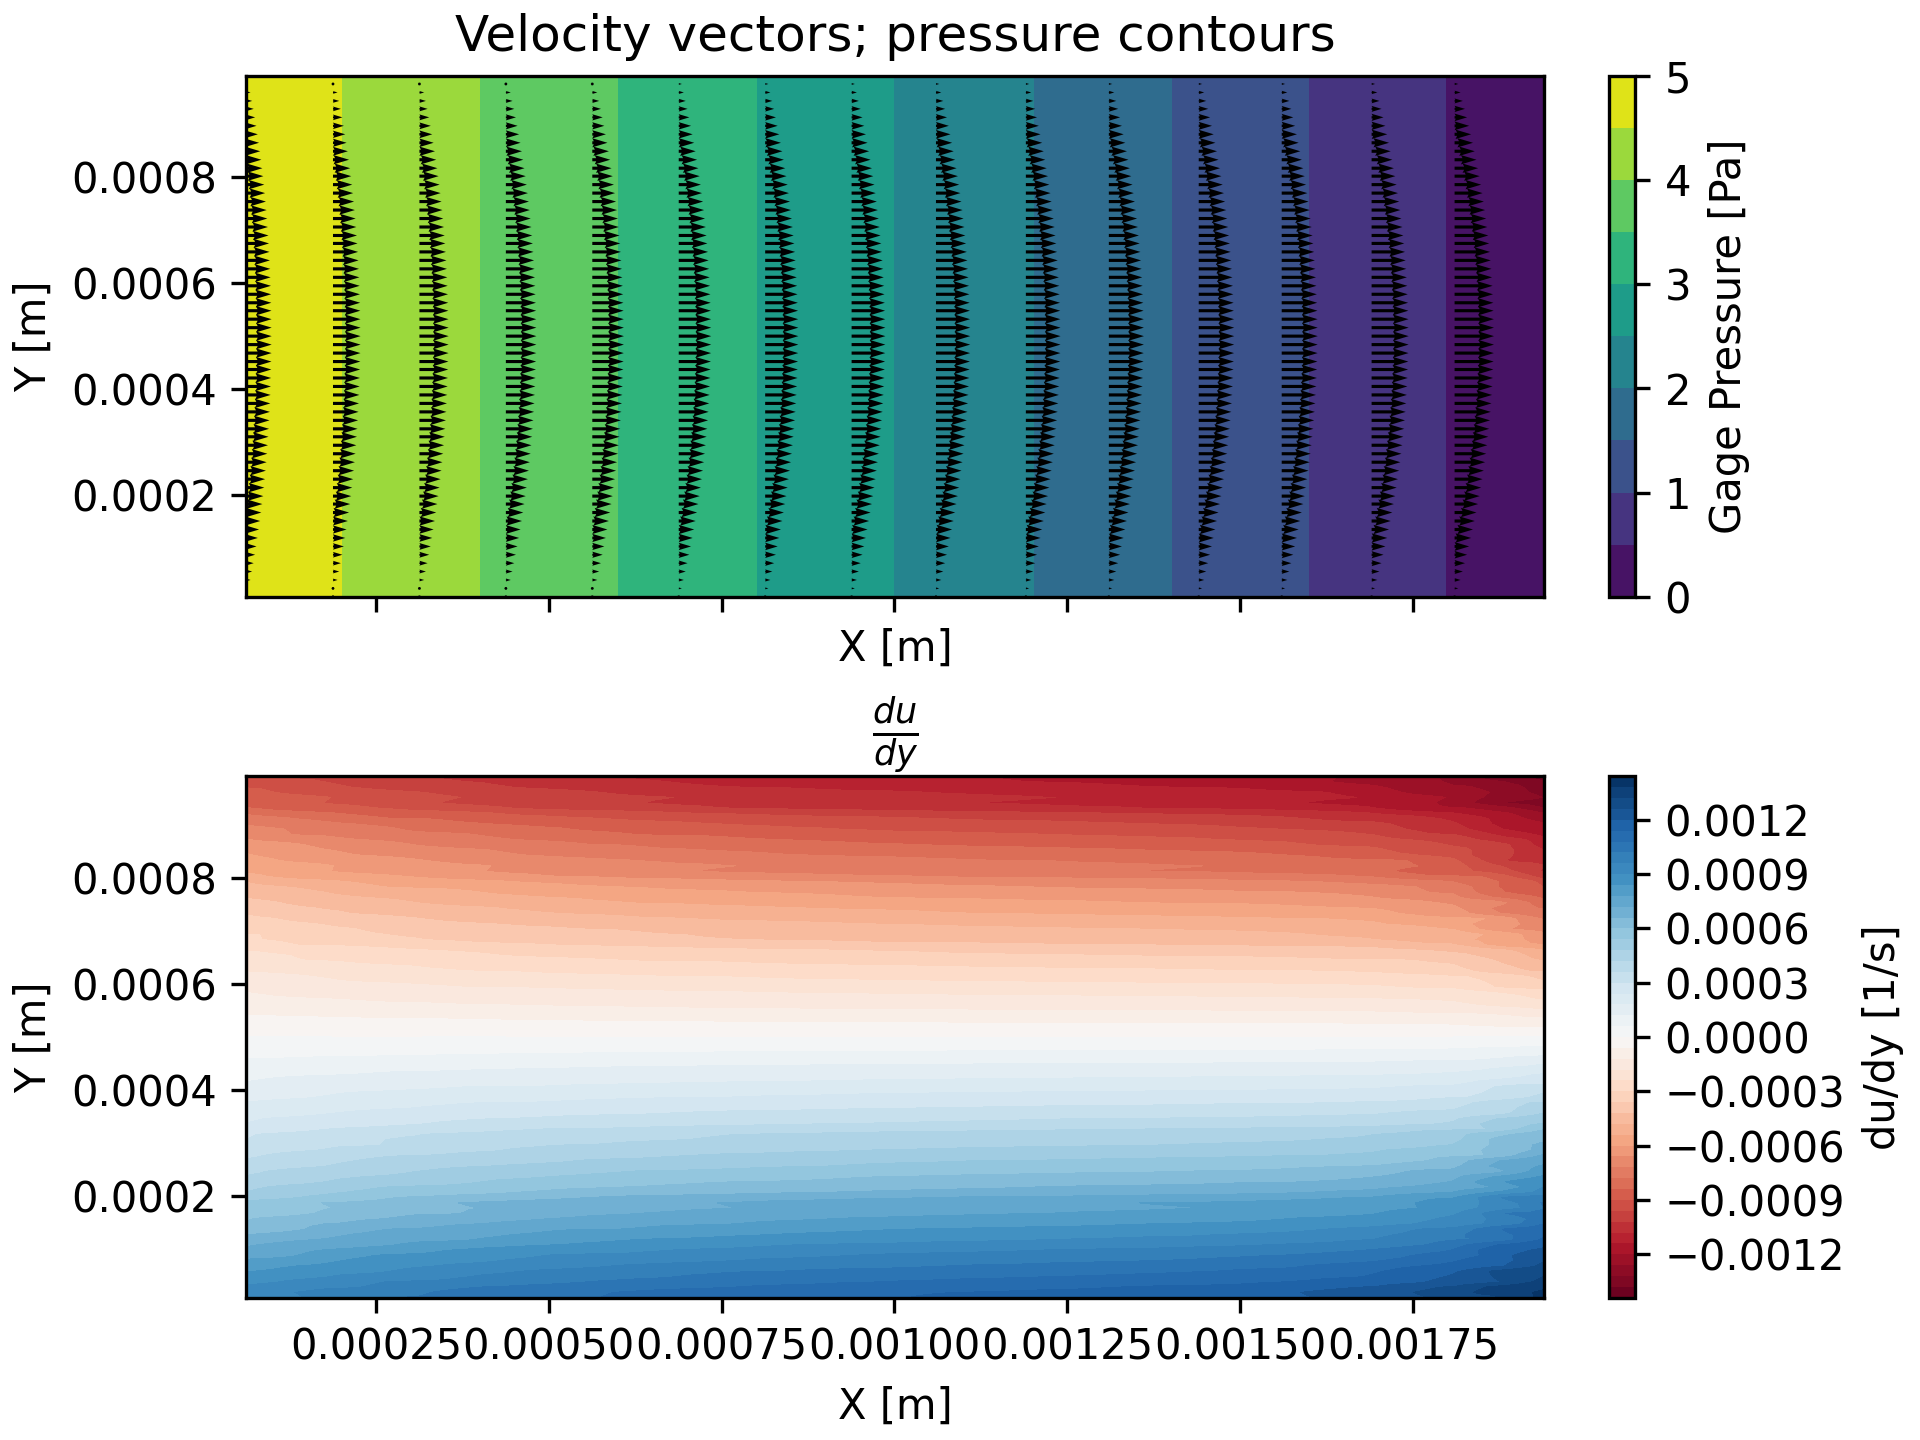
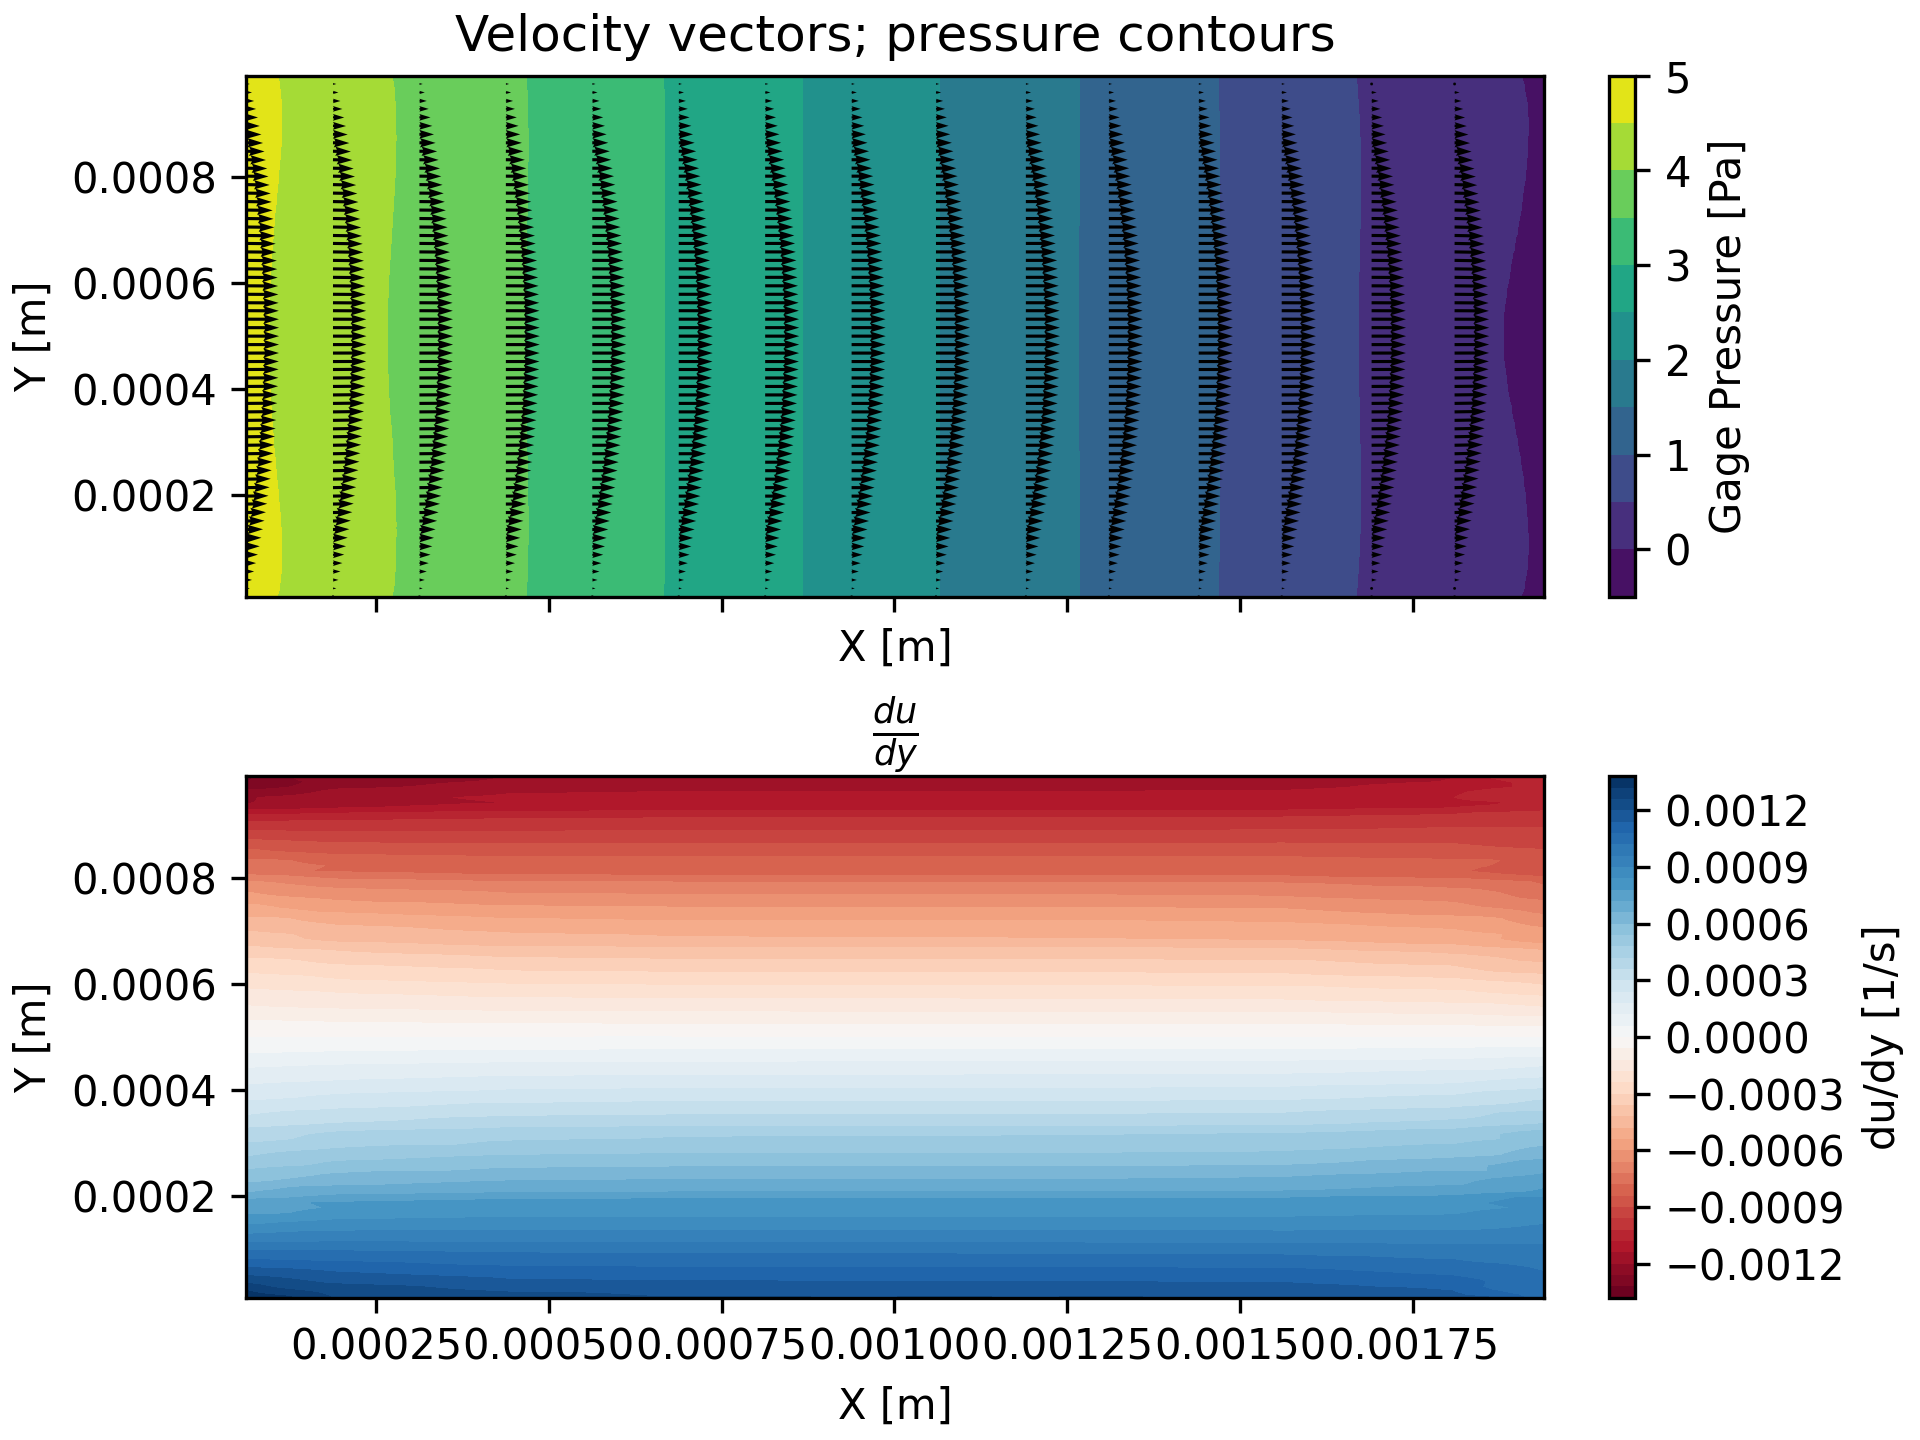
print average magnitudes of pressure & velocity correction

diff --git a/src/main.rs b/src/main.rs
@@ -22,7 +22,7 @@ fn validate_solvers() {
     // | 1 0 0 |   | 11/6 |   | 1.833 |
     // | 0 1 0 | = | 10/9 | = | 1.111 |
     // | 0 0 1 |   | -2/3 |   | -0.67 |
-    let mut a_coo: CooMatrix<Float> = CooMatrix::new(3,3);
+    let mut a_coo: CooMatrix<Float> = CooMatrix::new(3, 3);
     a_coo.push(0, 0, 2.);
     a_coo.push(0, 2, 1.);
 
@@ -34,8 +34,8 @@ fn validate_solvers() {
 
     let a = CsrMatrix::from(&a_coo);
     // let mut a = CsMat::new((3, 3), vec![2., 0., 1.], vec![0., 3., 2.], vec![2., 0., 4.]);
-    let b = DVector::from_column_slice(&vec![3.,2.,1.]);
-    let mut x = DVector::from_column_slice(&vec![0.,0.,0.]);
+    let b = DVector::from_column_slice(&vec![3., 2., 1.]);
+    let mut x = DVector::from_column_slice(&vec![0., 0., 0.]);
 
     iterative_solve(&a, &b, &mut x, 100, SolutionMethod::Jacobi, 0.5);
 
@@ -53,7 +53,6 @@ fn validate_solvers() {
     println!("x = {x:?}");
     println!("*** Jacobi solver validated. ***");
 
-
     println!("*** Testing Gauss-Seidel solver for correctness. ***");
     // | 2 0 1 |   | 3 |
     // | 0 3 2 | = | 2 |
@@ -62,7 +61,7 @@ fn validate_solvers() {
     // | 1 0 0 |   | 11/6 |   | 1.833 |
     // | 0 1 0 |   | 10/9 |   | 1.111 |
     // | 0 0 1 | = | -2/3 | = | -0.67 |
-    let mut a_coo: CooMatrix<Float> = CooMatrix::new(3,3);
+    let mut a_coo: CooMatrix<Float> = CooMatrix::new(3, 3);
     a_coo.push(0, 0, 2.);
     a_coo.push(0, 2, 1.);
 
@@ -74,8 +73,8 @@ fn validate_solvers() {
 
     let a = CsrMatrix::from(&a_coo);
     // let mut a = CsMat::new((3, 3), vec![2., 0., 1.], vec![0., 3., 2.], vec![2., 0., 4.]);
-    let b = DVector::from_column_slice(&vec![3.,2.,1.]);
-    let mut x = DVector::from_column_slice(&vec![0.,0.,0.]);
+    let b = DVector::from_column_slice(&vec![3., 2., 1.]);
+    let mut x = DVector::from_column_slice(&vec![0., 0., 0.]);
 
     iterative_solve(&a, &b, &mut x, 100, SolutionMethod::GaussSeidel, 0.7);
 
@@ -179,13 +178,7 @@ fn test_2d(iteration_count: Uint) {
 
     let settings = NumericalSettings::default();
 
-    solve_steady(
-        &mut mesh,
-        &settings,
-        1000.,
-        0.001,
-        iteration_count,
-    );
+    solve_steady(&mut mesh, &settings, 1000., 0.001, iteration_count);
 }
 
 fn test_3d_1x3(iteration_count: Uint, momentum_relaxation: Float, pressure_relaxation: Float) {
@@ -229,13 +222,7 @@ fn test_3d_1x3(iteration_count: Uint, momentum_relaxation: Float, pressure_relax
 
     let settings = NumericalSettings::default();
     // High viscosity needed to keep Peclet under control
-    let (u, v, w, p) = solve_steady(
-        &mut mesh,
-        &settings,
-        1000.,
-        10.,
-        iteration_count,
-    );
+    let (u, v, w, p) = solve_steady(&mut mesh, &settings, 1000., 10., iteration_count);
 
     for cell_number in 0..mesh.cells.len() {
         let cell_velocity = Vector3 {
@@ -252,7 +239,6 @@ fn test_3d_1x3(iteration_count: Uint, momentum_relaxation: Float, pressure_relax
         //     1e-6
         // ));
     }
-
 }
 
 fn test_3d_3x3(iteration_count: Uint, momentum_relaxation: Float, pressure_relaxation: Float) {
@@ -293,13 +279,7 @@ fn test_3d_3x3(iteration_count: Uint, momentum_relaxation: Float, pressure_relax
     }
 
     let settings = NumericalSettings::default();
-    let (u, v, w, p) = solve_steady(
-        &mut mesh,
-        &settings,
-        1000.,
-        100.,
-        iteration_count,
-    );
+    let (u, v, w, p) = solve_steady(&mut mesh, &settings, 1000., 100., iteration_count);
 
     let mut avg_velocity = Vector3::zero();
     for cell_number in 0..mesh.cells.len() {
@@ -353,13 +333,7 @@ fn couette(iteration_count: Uint) {
         ..NumericalSettings::default()
     };
 
-    let (u, v, w, p) = solve_steady(
-        &mut mesh,
-        &settings,
-        1000.,
-        0.01,
-        iteration_count,
-    );
+    let (u, v, w, p) = solve_steady(&mut mesh, &settings, 1000., 0.01, iteration_count);
     // Initially guessed pressure field is exactly correct, so
     // this should be able to converge in 1 iteration. With 100k
     // Gauss-Seidel iterations, it's mostly correct in 1iter, but
@@ -367,7 +341,7 @@ fn couette(iteration_count: Uint) {
     // with pressure-velocity coupling? Not enough mesh? I think
     // it's pressure-velocity coupling, as lots of inner iterations
     // produces correct-ish results, while lots of outer iterations
-    // produces a pseudo-turbulent velocity profile. Disabling pressure
+    // produces a pseudo-turbulent velocity profile. Disabling velocity
     // correction produces a noisy and inconsistent velocity field,
     // but it's much closer to correct than with pressure correction
     // enabled.

diff --git a/src/solver.rs b/src/solver.rs
@@ -281,7 +281,7 @@ pub fn solve_steady(
                     print!("p': ");
                     print_vec_scientific(&p_prime);
                 }
-                apply_pressure_correction(
+                let (avg_pressure_correction, avg_vel_correction) = apply_pressure_correction(
                     mesh,
                     &a,
                     &p_prime,
@@ -296,8 +296,8 @@ pub fn solve_steady(
                 let v_avg = v.iter().sum::<Float>() / (cell_count as Float);
                 let w_avg = w.iter().sum::<Float>() / (cell_count as Float);
                 println!(
-                    "Iteration {}: avg velocity = ({:.2e}, {:.2e}, {:.2e})",
-                    iter_number, u_avg, v_avg, w_avg,
+                    "Iteration {}: avg velocity = ({:.2e}, {:.2e}, {:.2e})\tpressure correction: {:.2e}\tvelocity correction: {:.2e}",
+                    iter_number, u_avg, v_avg, w_avg, avg_pressure_correction, avg_vel_correction
                 );
                 if Float::is_nan(u_avg) || Float::is_nan(v_avg) || Float::is_nan(w_avg) {
                     panic!("solution diverged");
@@ -876,10 +876,14 @@ fn apply_pressure_correction(
     w: &mut DVector<Float>,
     p: &mut DVector<Float>,
     numerical_settings: &NumericalSettings,
-) {
+) -> (Float, Float) {
+    let mut avg_pressure_corr_magnitude = 0.;
+    let mut avg_velocity_corr_magnitude = 0.;
     for (cell_index, cell) in &mut mesh.cells {
-        // p[*cell_index] = &p[*cell_index]
-        //     + numerical_settings.pressure_relaxation * (*p_prime.get(*cell_index).unwrap_or(&0.));
+        let pressure_correction = *p_prime.get(*cell_index).unwrap_or(&0.);
+        p[*cell_index] =
+            &p[*cell_index] + numerical_settings.pressure_relaxation * (pressure_correction);
+        avg_pressure_corr_magnitude += Float::abs(pressure_correction);
         let velocity_correction = cell
             .face_indices
             .iter()
@@ -913,11 +917,16 @@ fn apply_pressure_correction(
                 acc + outward_face_normal * (&p_prime[*cell_index] - p_prime_neighbor) * face.area / momentum_matrices.get_entry(*cell_index, *cell_index).expect("momentum matrix should have nonzero coeffs relating each cell to its neighbors")
 .into_value()
             });
-        // u[*cell_index] =
-        //     &u[*cell_index] * (1. - numerical_settings.momentum_relaxation) + velocity_correction.x;
-        // v[*cell_index] =
-        //     &v[*cell_index] * (1. - numerical_settings.momentum_relaxation) + velocity_correction.y;
-        // w[*cell_index] =
-        //     &w[*cell_index] * (1. - numerical_settings.momentum_relaxation) + velocity_correction.z;
+        u[*cell_index] =
+            &u[*cell_index] * (1. - numerical_settings.momentum_relaxation) + velocity_correction.x;
+        v[*cell_index] =
+            &v[*cell_index] * (1. - numerical_settings.momentum_relaxation) + velocity_correction.y;
+        w[*cell_index] =
+            &w[*cell_index] * (1. - numerical_settings.momentum_relaxation) + velocity_correction.z;
+        avg_velocity_corr_magnitude += velocity_correction.norm();
     }
+    (
+        avg_pressure_corr_magnitude / (mesh.cells.len() as Float),
+        avg_velocity_corr_magnitude / (mesh.cells.len() as Float),
+    )
 }
